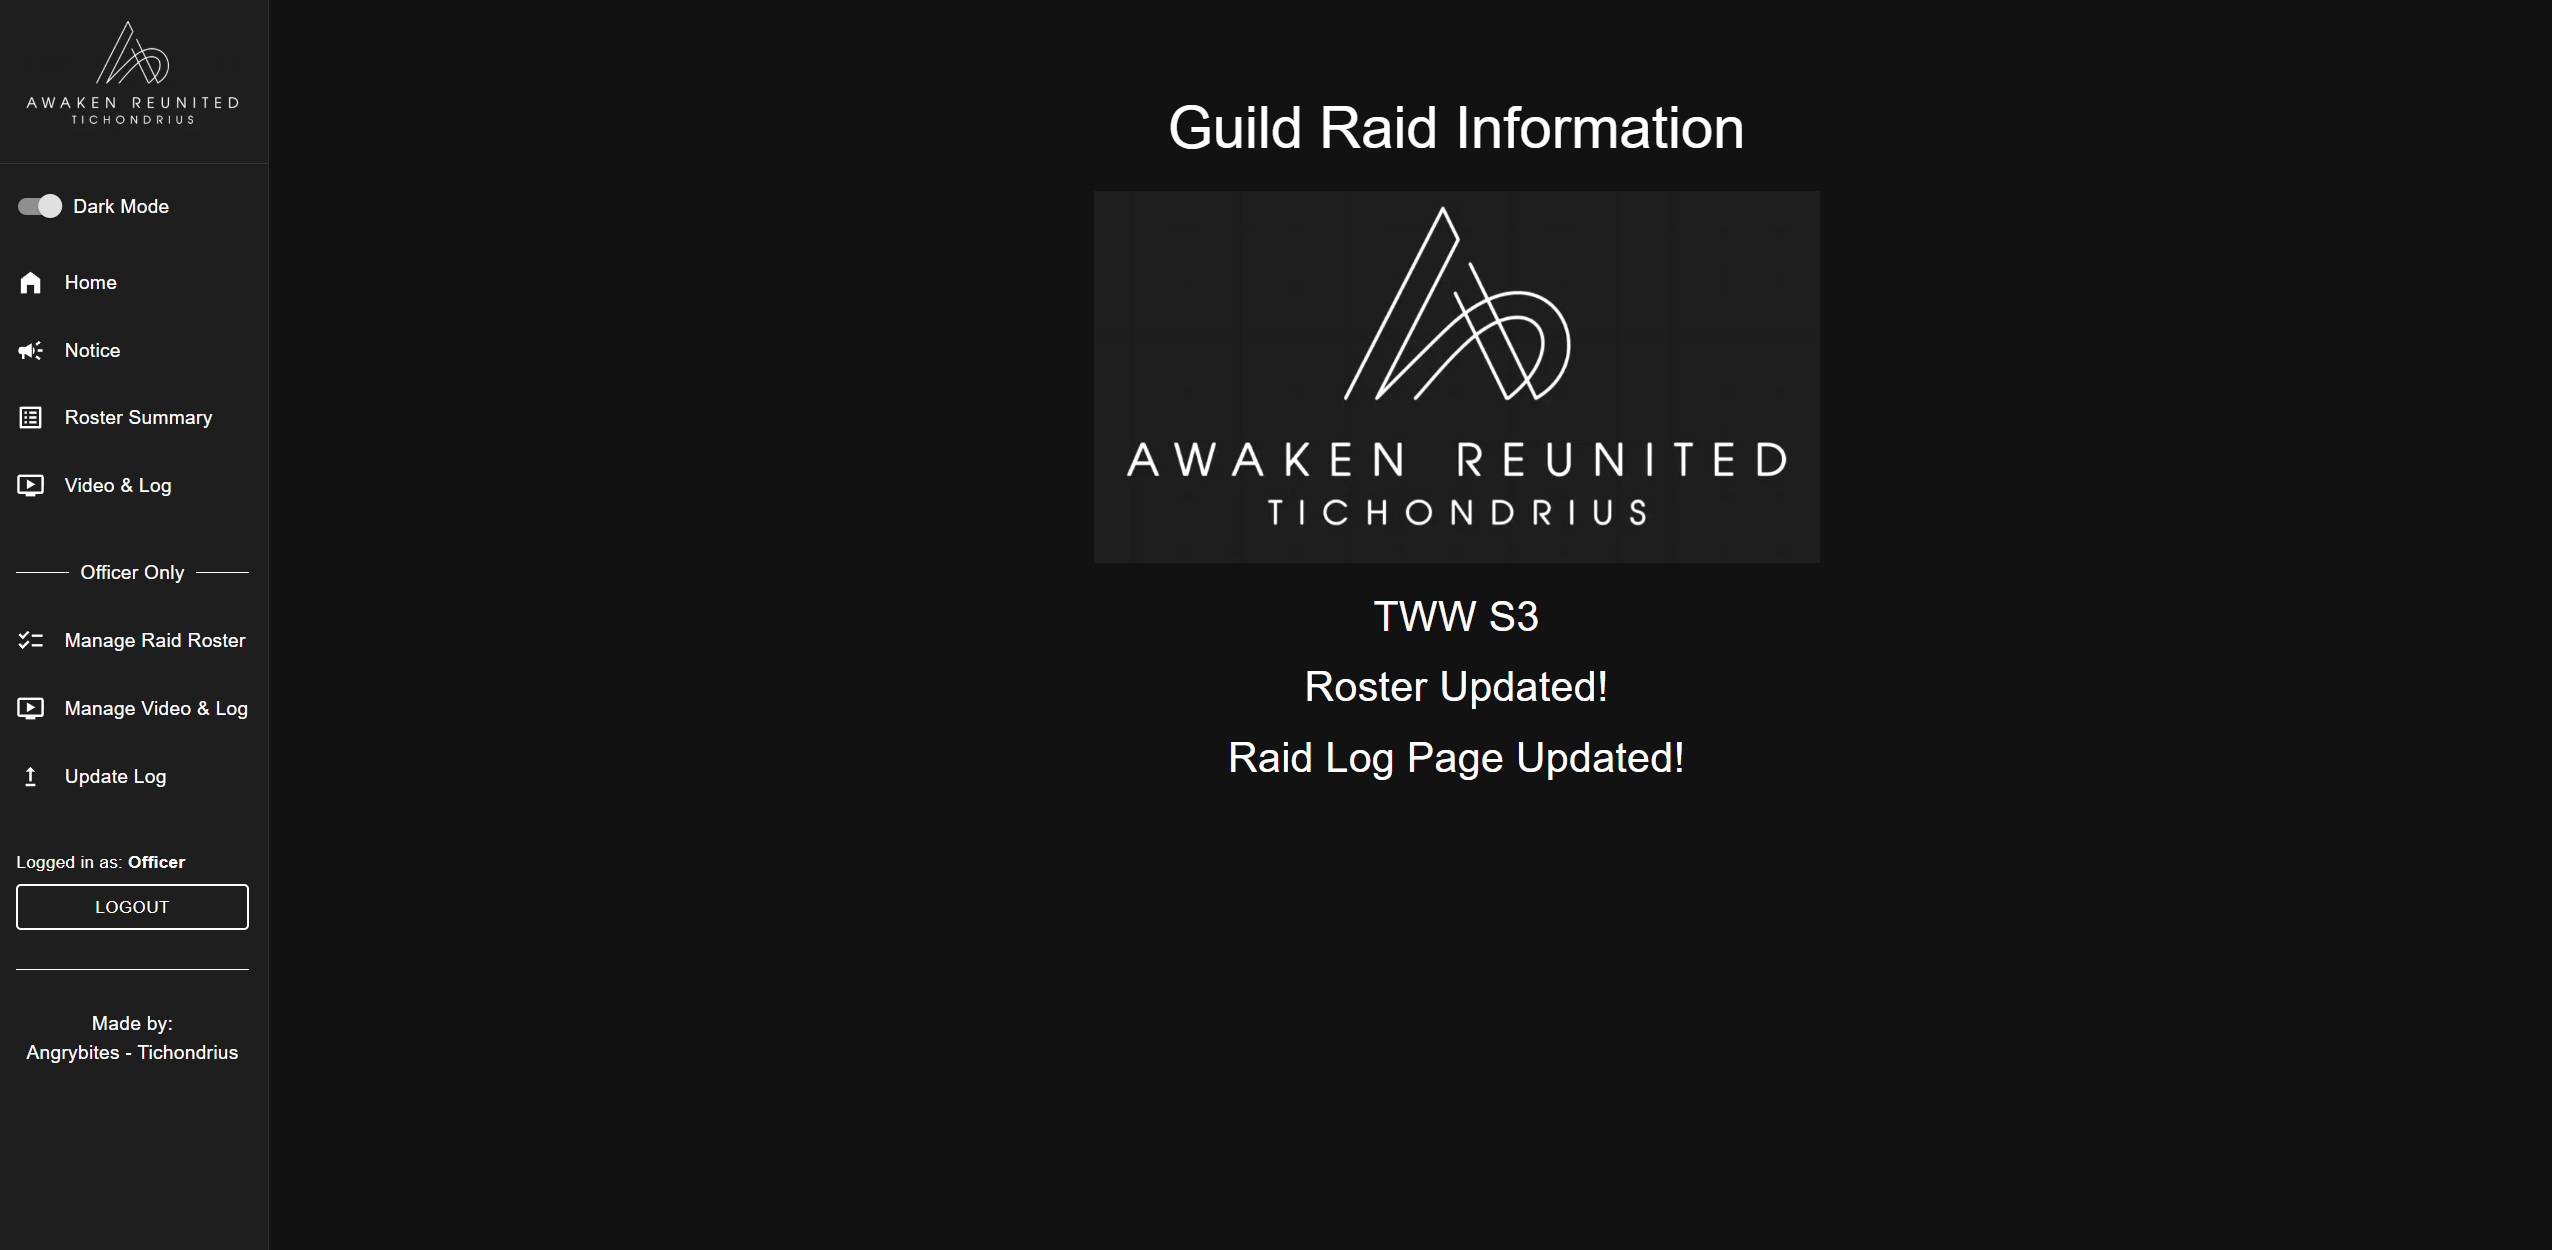
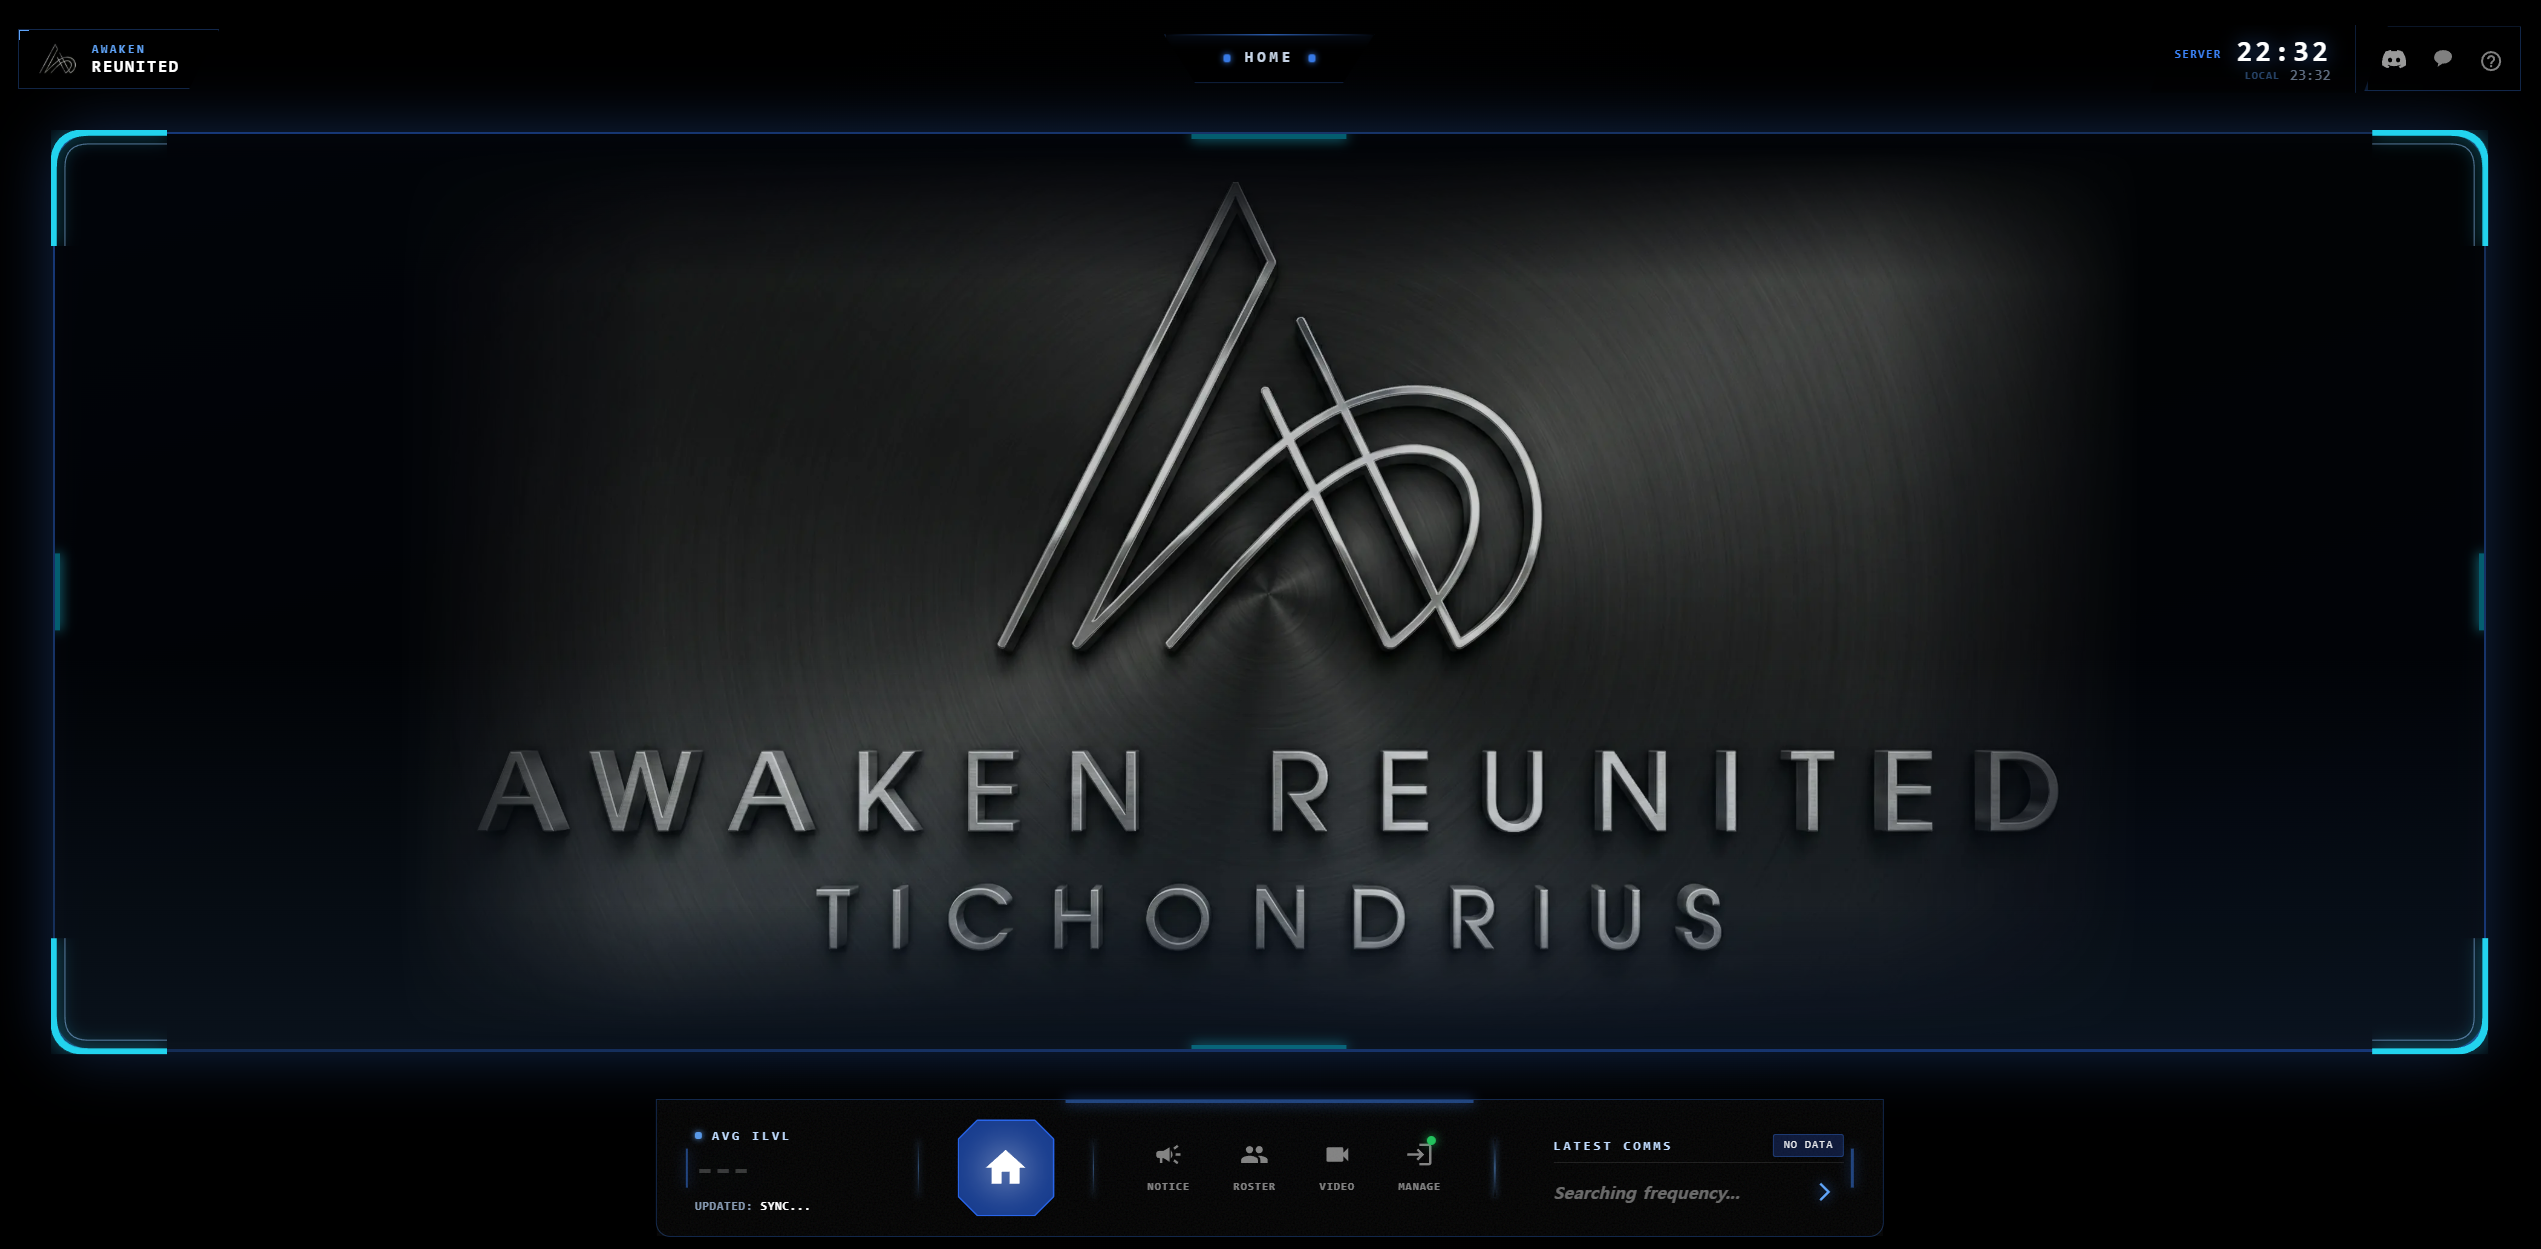
Project Update

diff --git a/src/app/components/sections/Projects.tsx b/src/app/components/sections/Projects.tsx
@@ -52,7 +52,7 @@ const projects = [
         title: "WoW Guild Manager",
         subtitle: "PERSONAL PROJECT",
         role: "SOLO DEV",
-        period: "AUG 2025",
+        period: "AUG 2025 (Redesigned in DEC 2025)",
         url: "https://wow-guild-raid-ilvl.vercel.app/",
         image: "/Guild Item Level Tracker.png",
         tech: ["React", "MUI", "Blizzard API", "OAuth 2.0", "Prisma"],
